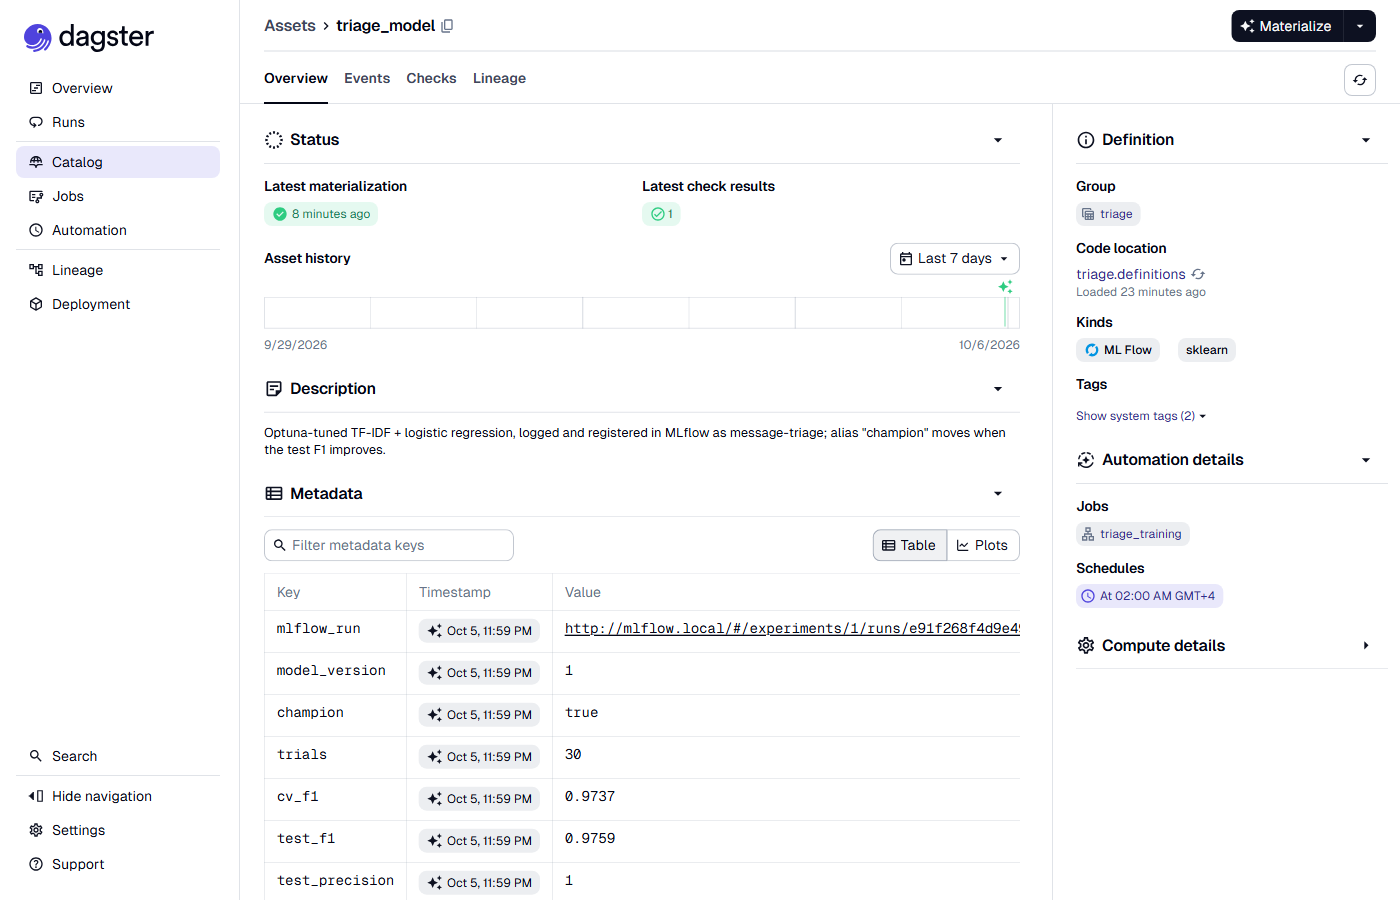
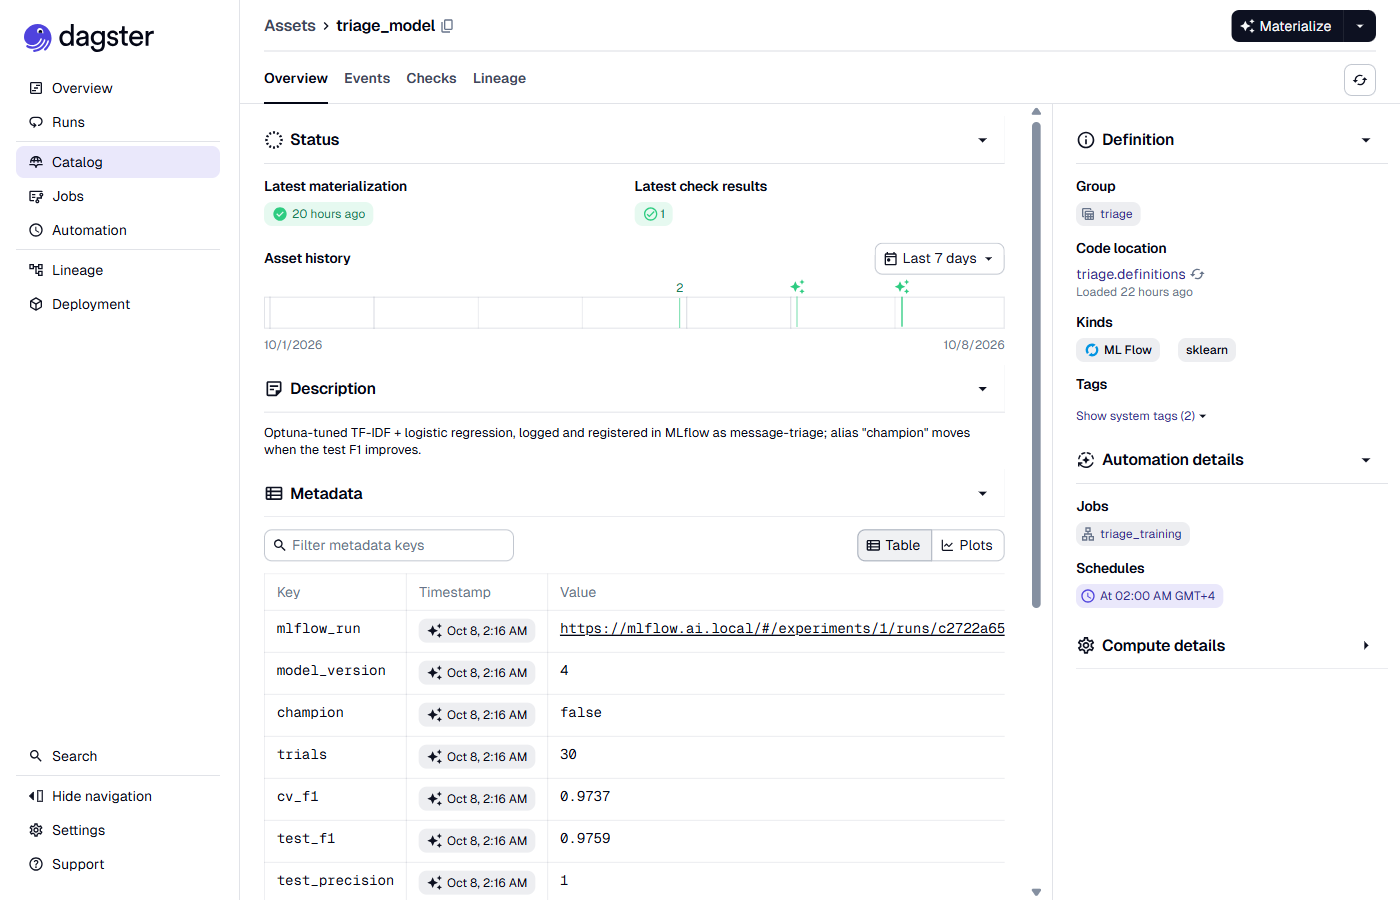
Fresh screenshots with live data; Grafana gets more memory
- All 16 UI screenshots retaken signed in, with data: a chat answer, the agent citing its
  source, the Models page, Phoenix traces (185), Grafana charts, Argo CD Healthy/Synced,
  Headlamp workloads, n8n workflows, SeaweedFS dashboard, MLflow versions, Dagster metadata.
- screenshots.ps1 -Open / -Attach: opens every UI in a separate browser window, you sign in
  once yourself, then it captures from that window (the password never reaches the script).
  Waits for real data (Grafana charts drawn, Phoenix rows, Argo CD healthy, chat answered).
- Grafana: 256 MiB request / 1 GiB limit, 2 CPU (was 96 MiB / 384 MiB, 1 CPU). It sat at
  ~350 MiB of 384, timed out its own requests (dashboards stuck on "Loading") and was
  restarted by its liveness probe under load.

diff --git a/README.md b/README.md
@@ -866,7 +866,7 @@ ArgoCD (in k3s, profile gitops) ◄────┘ polls development every ~3 mi
 | Authelia (single sign-on) | 32 MB (limit 256 MB) |
 | n8n (profile automation) | 512 MB (measured ~380 MB) |
 | Phoenix (profile observability) | 512 MB (measured ~500 MB) |
-| Prometheus + Grafana (profile observability) | 768 MB (measured ~320 MB) |
+| Prometheus + Grafana (profile observability) | Prometheus 384 MB; Grafana 256 MB request, 1 GiB limit (measured ~320–350 MB; at 384 MB it timed out under load) |
 | ArgoCD (profile gitops) | 1.3 GB (measured 204 MB, trimmed) |
 | **Total (core, steady state)** | **~13.7 GB** |
 | **Peak (during training)** | **up to WSL cap of 18 GB** |
